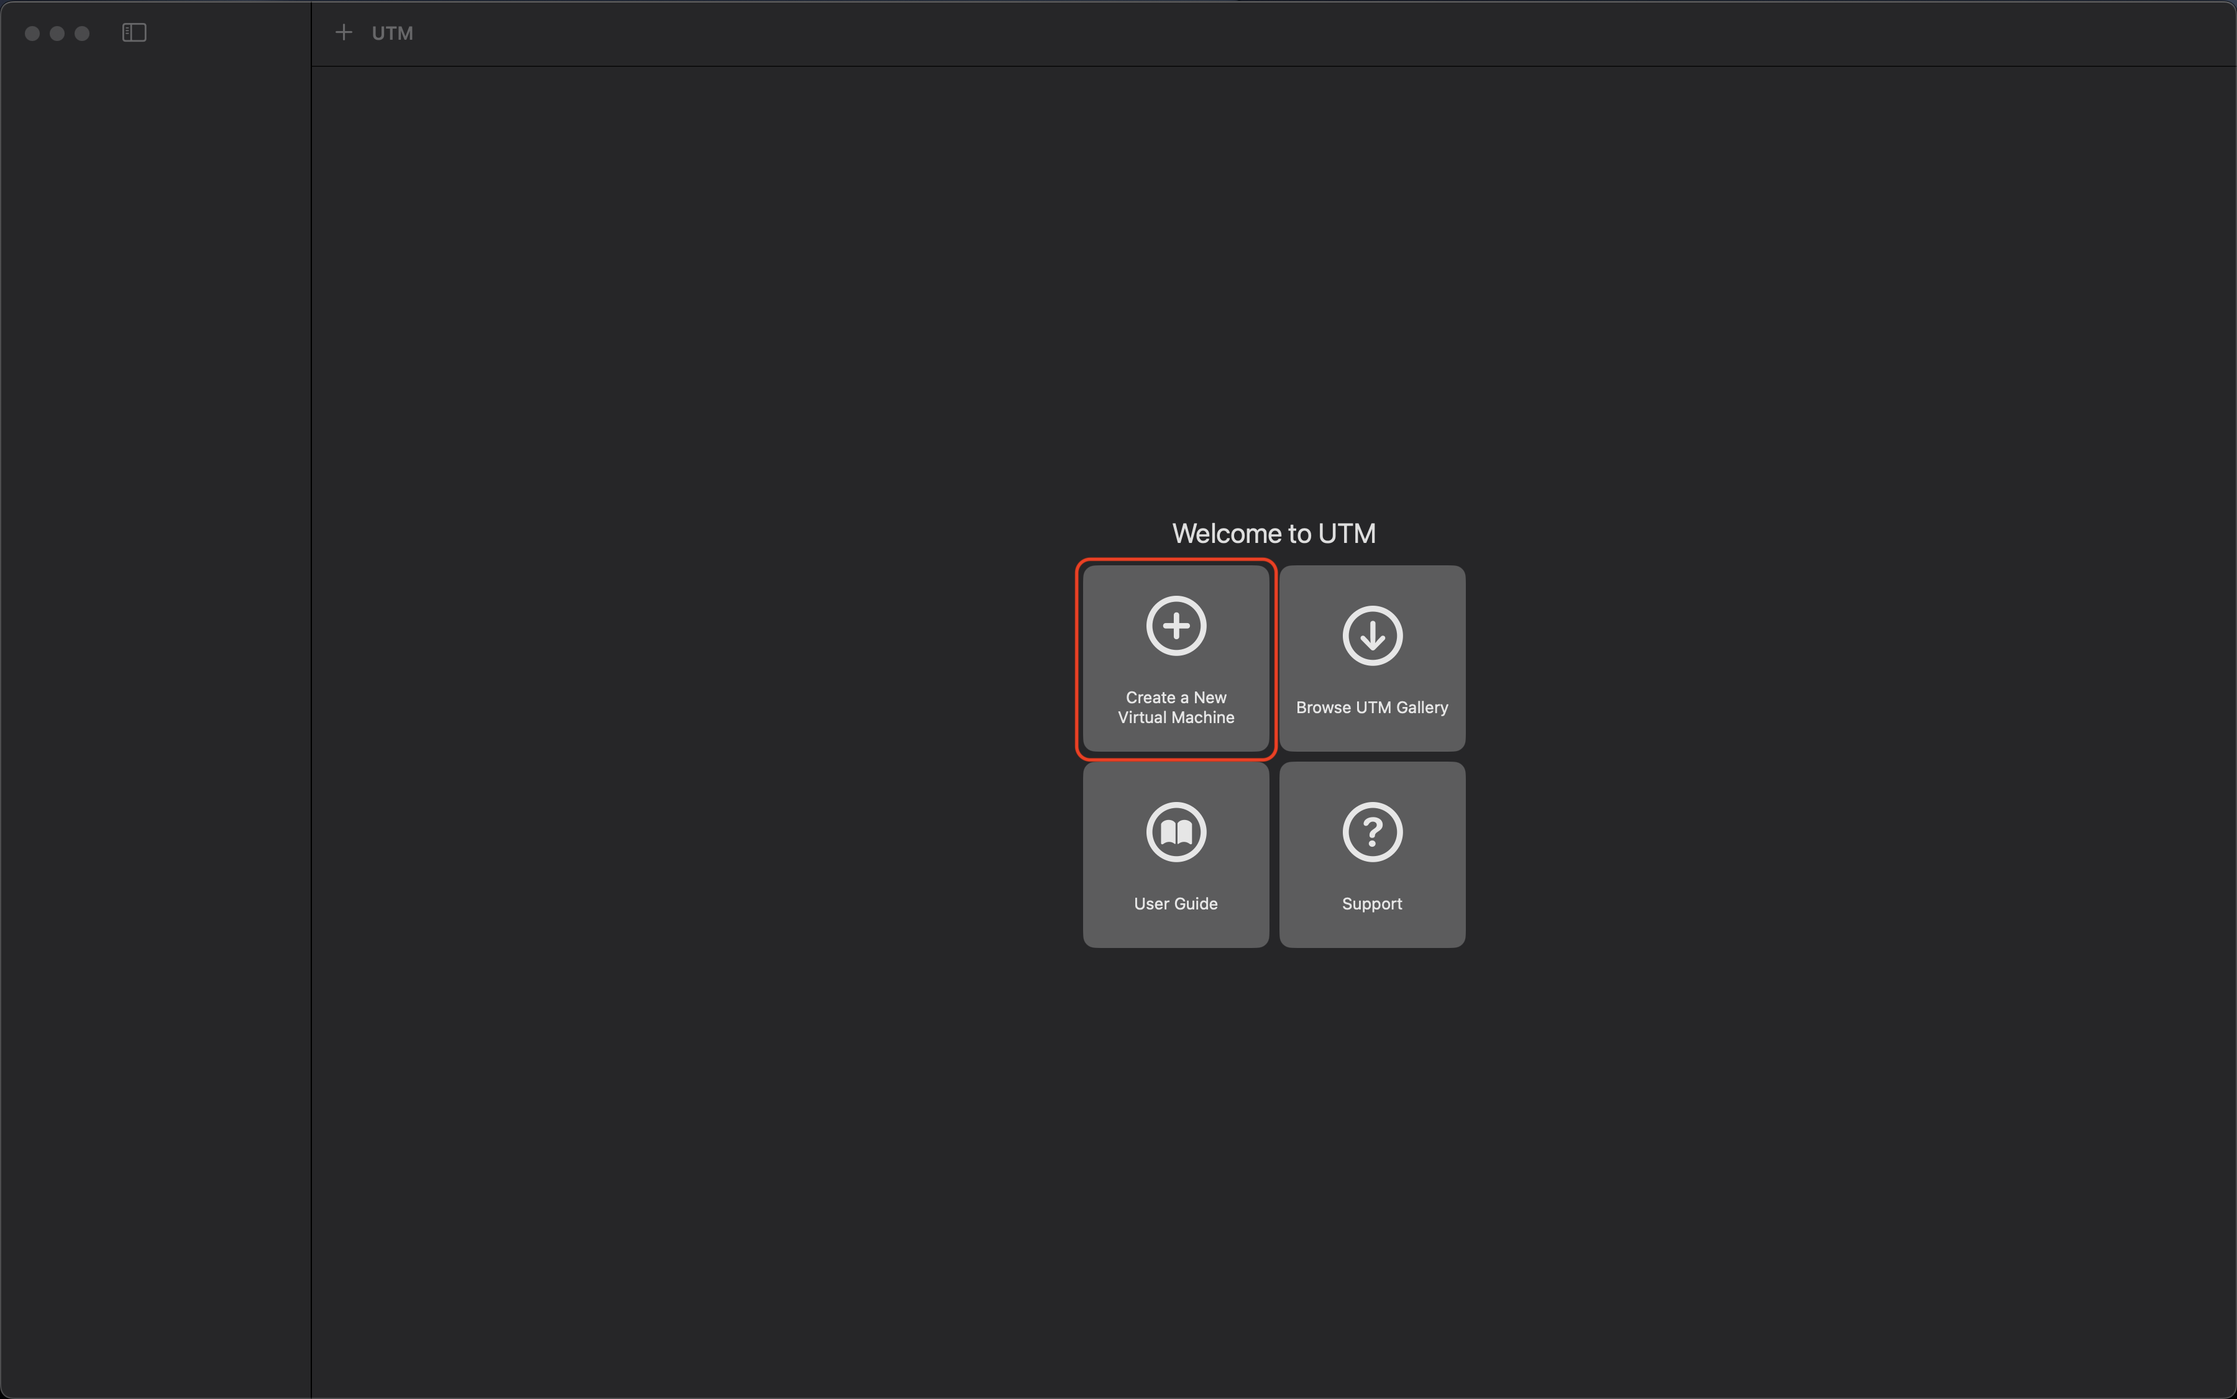
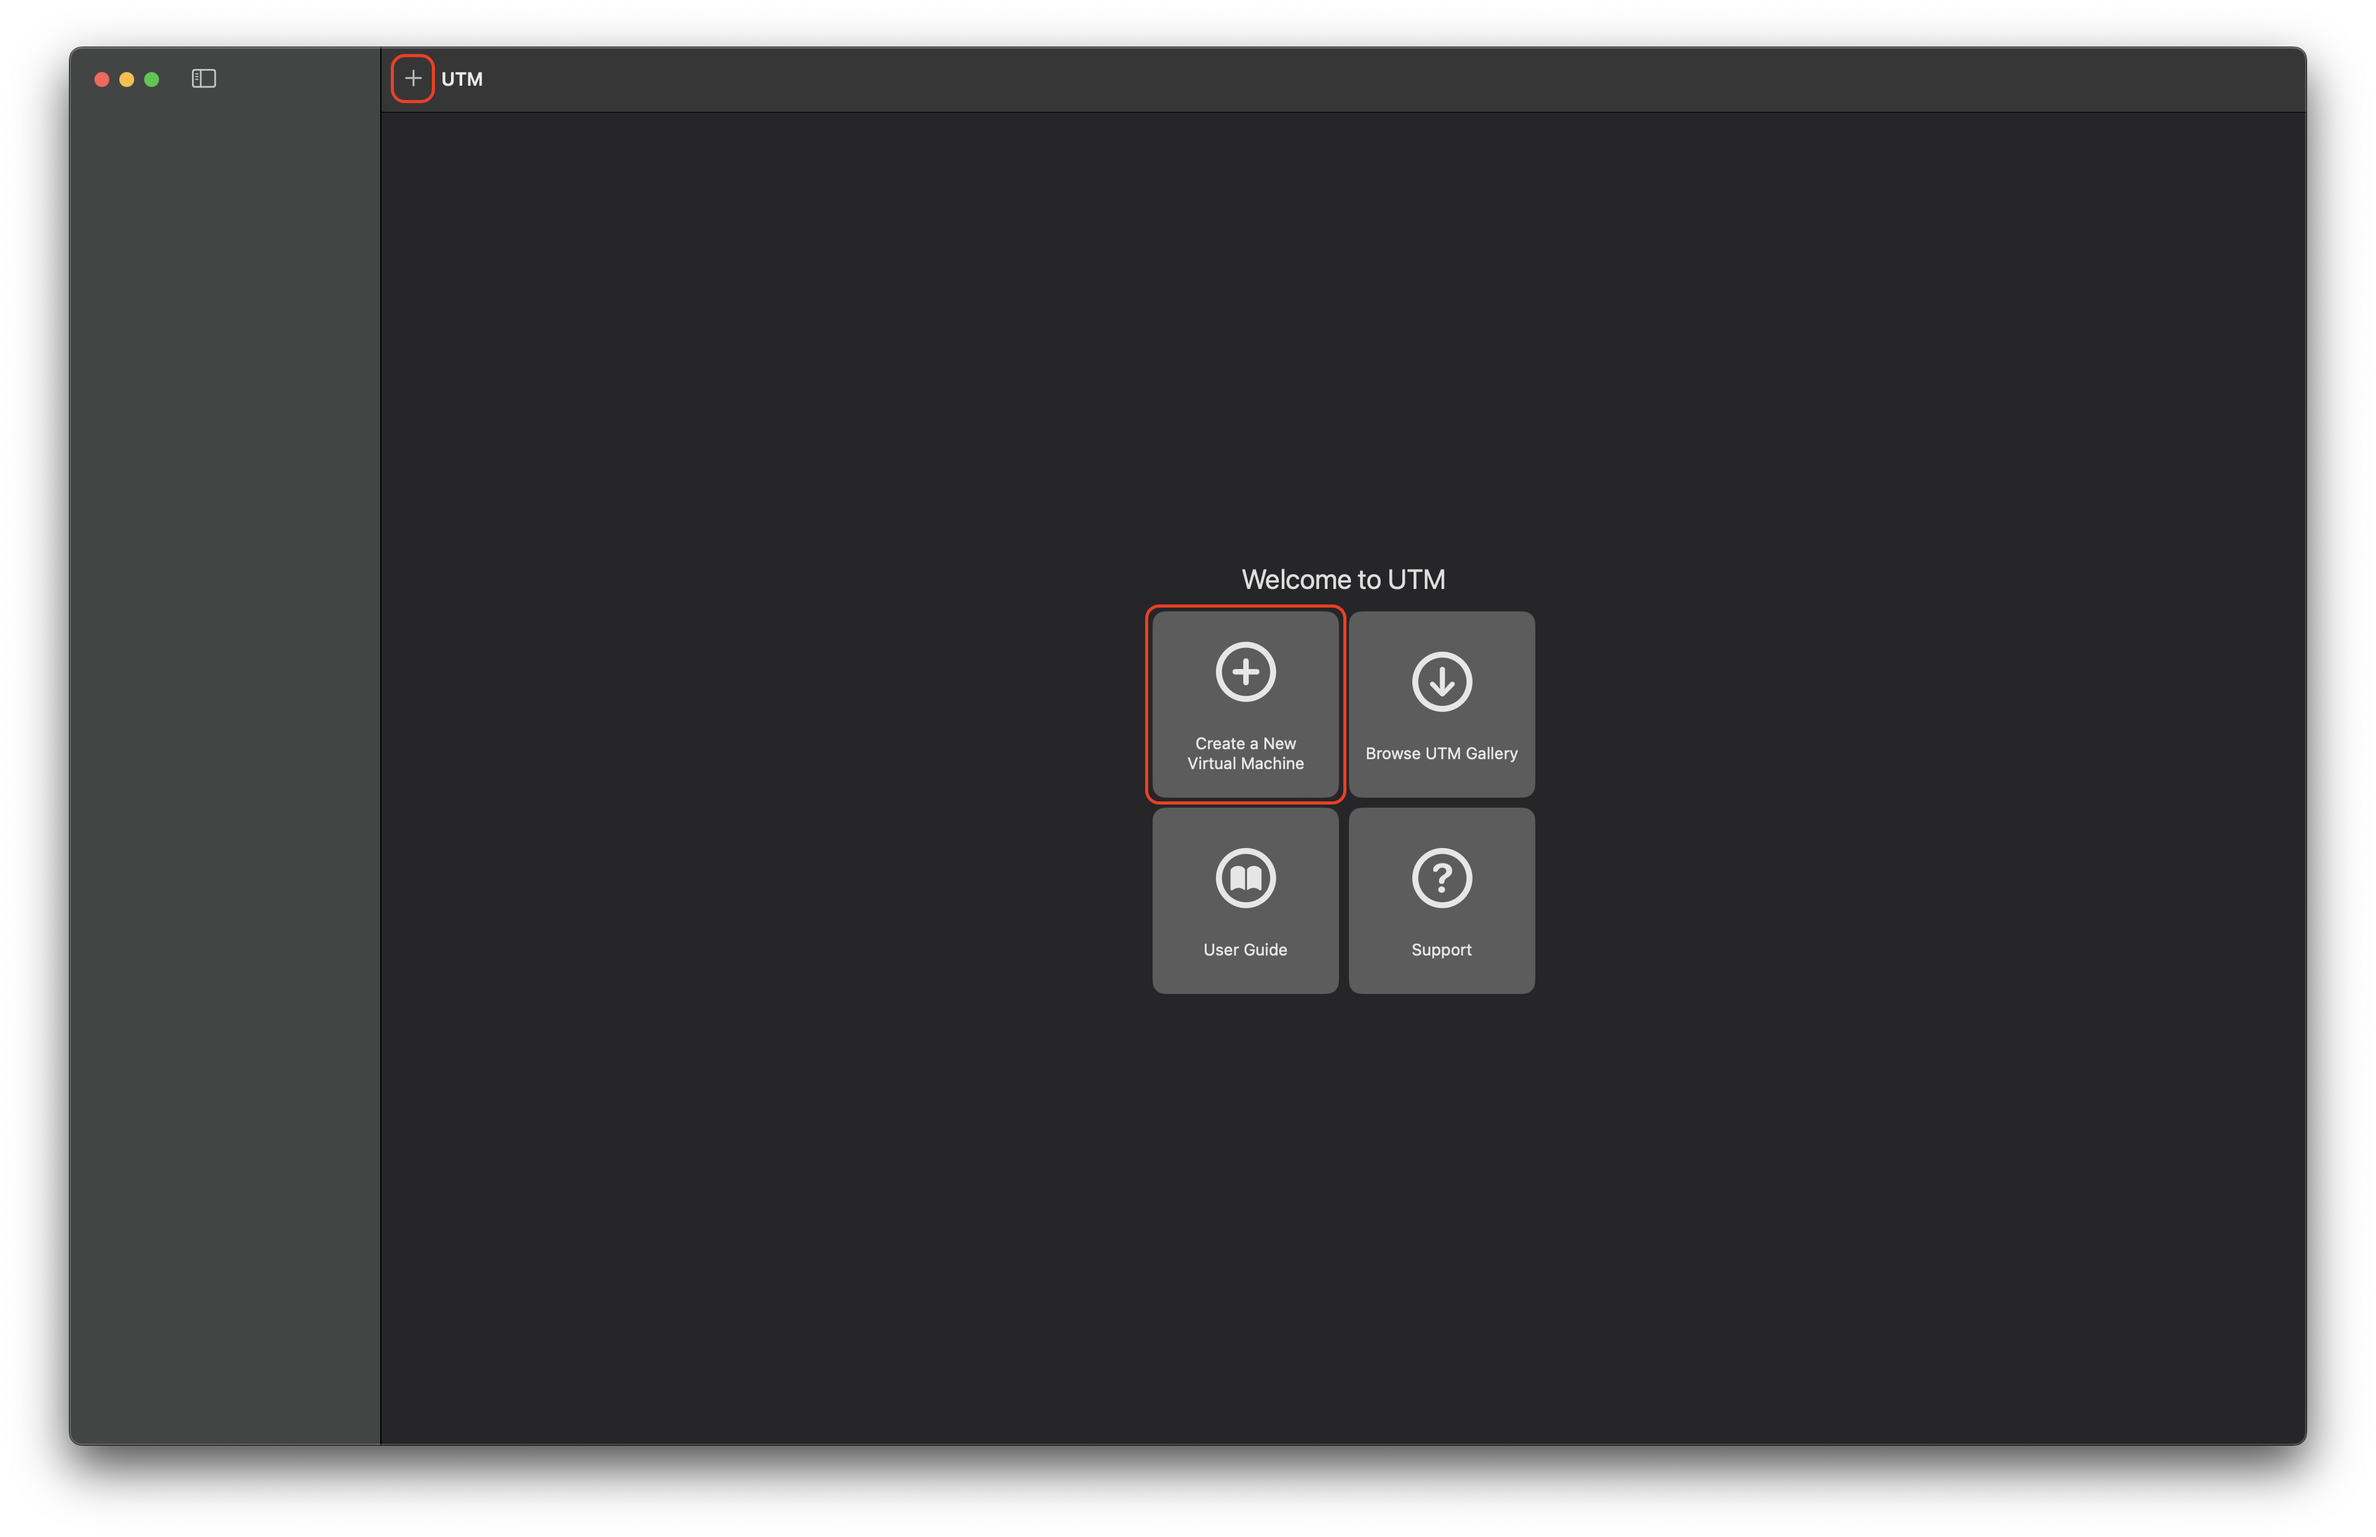
pre-proofread

Changed region(s): [[0.0, 0.0, 1.0, 1.0], [0.4667, 0.373, 0.6533, 0.6838]]

diff --git a/README.md b/README.md
@@ -2,31 +2,131 @@
 As of Spring 2024
 
 ## Download UTM
-A link to the free version of UTM can be found [here](https://mac.getutm.app/). There is a paid version on the mac appstore ($9.99). The only difference between these versions is the fact that the paid version gets automatic updates. The free download needs to be manually updated.
+A link to the free version of UTM can be found [here](https://mac.getutm.app/). There is a paid version on the mac appstore ($9.99 USD). The only difference between these versions is the fact that the paid version gets automatic updates. The free download needs to be manually updated.
 
-## Download the ISOs
-The nescessary isos can be downloaded from these links (onedrive)
+## Download Links
+The nescessary UTM files can be downloaded here:
 
-[SEED Labs](www.example.com)
+[`Ubuntu 22.04 ARM64 UTM.zip`](https://1drv.ms/u/s!As06ehb0pJGBh-dfzYzdChnJhK6RUg?e=yTgODR) (OneDrive, 3.61GB)
 
-[Kali Linux](www.example.com)
+[`Kali Linux 2023 ARM64 UTM.zip`](https://1drv.ms/u/s!As06ehb0pJGBh-deUz1P8yrWaRpo7g?e=hotwXl) (OneDrive, 4.51GB)
 
+> **NOTE**: These exact files are available for download from the UTM site. However, they are quite slow to download, taking around 1 - 2 hours a piece. The provided links are the identical files provided by UTM, just serviced by OneDrive, which is far quicker. 
+
+---
 ## Set up the VMs
 
 ### SEED Labs
 
-### Kali Linux
-From the starting screen, click "Create a new Virtual Machine"
+#### Ubuntu 22.04
+
+The `.vdi` file available for download from the SEED Labs site is incompatible with UTM. We need to build the SEED Labs VM manually.
+
+Unzip `Ubuntu 22.04 ARM64 UTM.zip` and save the `.utm` file somewhere you can find it.
+
+From the UTM starting screen, select `Create a New Virtual Machine`, or select the `+` in the upper left corner
 <p align="center">
   <image src="images/starting-screen.png" style="height:500px"></image>
 </p>
 
-Select "virtualize"
+Select `open`
 <p align="center">
-  <image src="images/virtualize.png" style="height:500px"></image>
+  <image src="images/open-existing.png" style="height:500px"></image>
 </p>
 
-Select "other" (yes, even though we are building a linux machine)
+Find and select `Ubuntu 22.04.utm`.
+
+The machine should now automatically be added to your sidebar. Running the machine should be no problem. Login credentials are as follows:
+
+Username: ```ubuntu```
+Password: ```ubuntu```
+
+Be sure to update the system before proceeding:
+```sudo apt update```
+```sudo apt upgrade```
+
+At this point, feel free to customize your machine to your liking.
+
+#### Installing SEED Tools
+
+> **NOTE**: The steps I followed were from SEED Labs' documentation found [here](https://github.com/seed-labs/seed-labs/blob/master/manuals/vm/seedvm-from-scratch.md#4-installing-software-packages)
+
+First, ensure git is installed
+```sudo apt install git```
+
+Clone the SEED Labs setup repository
+```git clone https://github.com/seed-labs/seed-labs.git```
+
+This should have created a directory called `seed-labs`.
+
+Navigate to the directory containing the nescessary setup scripts
+```cd seed-labs/lab-setup/ubuntu20.04-vm/src-vm```
+
+Run `main.sh` and all of the nescessary tools should begin to install.
+```./main.sh```
+
+> **NOTE**: during the installation of Wireshark, you will be asked whether non-superuser should be able to capture packets. Choose `no`.
+
+#### Final Steps
+##### Disable automatic updates
+We do not want the system to automatically update. Open `Software and Updates`
+
 <p align="center">
-  <image src="images/other.png" style="height:500px"></image>
+  <image src="images/software-and-updates.png" style="height:200px"></image>
 </p>
+
+Under the `Updates` tab, change the settings for "automatically check for updates" and "notify me of a new Ubuntu version" to `Never`
+
+<p align="center">
+  <image src="images/updates-settings.png" style="height:300px"></image>
+</p>
+
+##### Fix "internal error" problem
+You may have seen a notification several times from Ubuntu saying that there was an internal error. In this case, it is really nothing serious. To disable the notification, we need to do two steps:
+
+1. Go to `Settings` --> `Privacy` --> `Diagnostics`, and change "Send error report to Canonical" to `Never`.
+
+<p align="center">
+  <image src="images/error-reports.png" style="height:300px"></image>
+</p>
+
+2. Ensure that in `/etc/default/apport`, `enabled=0`
+
+##### Fix Firefox not opening
+
+For some reason Firefox was not opening on my UTM virtual machine. To fix this, simply enable and start the `snapd.apparmor` service
+```sudo systemctl enable snapd.apparmor```
+```sudo systemctl start snapd.apparmor```
+
+##### Install the "HTTP Header Live" Firefox extension
+
+This extension is nescessary for some of the SEED labs. It can be added to firefox using [this](https://addons.mozilla.org/en-US/firefox/addon/http-header-live/) link:
+```https://addons.mozilla.org/en-US/firefox/addon/http-header-live/```
+
+##### Disable DNS over HTTPS
+
+To ensure DNS over HTTPS is disabled in firefox, click the menu button and select `Settings`. Search for "DNS over HTTPS", and make sure the `Status` is `Off`
+
+---
+### Kali Linux
+
+Unzip `Kali Linux 2023 ARM64 UTM.zip` and save the `.utm` file somewhere you can find it.
+
+From the UTM starting screen, select `Create a New Virtual Machine`, or select the `+` in the upper left corner
+<p align="center">
+  <image src="images/starting-screen.png" style="height:500px"></image>
+</p>
+
+Select `open`, and select the 
+<p align="center">
+  <image src="images/open-existing.png" style="height:500px"></image>
+</p>
+
+Find and select `Kali Linux 2023.utm`.
+
+The machine should now automatically be added to your sidebar. Running the machine should be no problem. Login credentials are as follows:
+
+Username: `kali`
+Password: `kali`
+
+---
